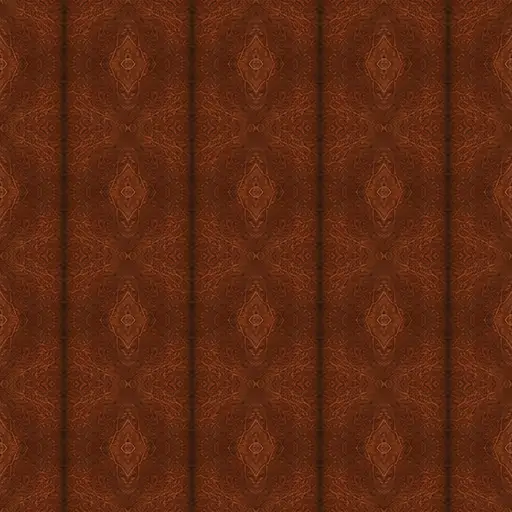
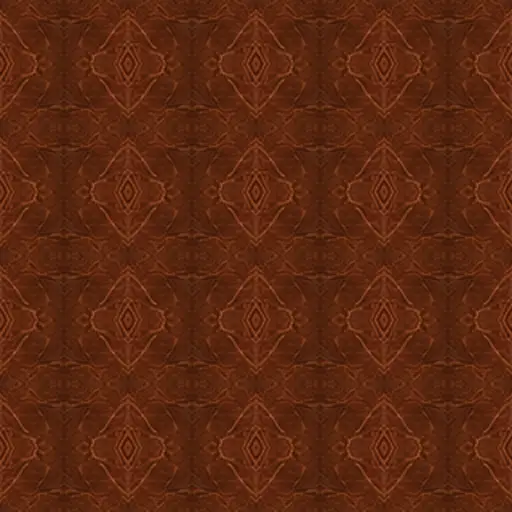
Refine picked leather and run-page readability

diff --git a/src/site/landing/landing.css b/src/site/landing/landing.css
@@ -1,5 +1,5 @@
 /* Live text and responsive cards from the picked hero's 12ui HTML conversion. */
-*{box-sizing:border-box}html{scroll-behavior:smooth}body{margin:0;background:var(--paper);color:var(--ink);font:17px/1.5 var(--font-ui);-webkit-font-smoothing:antialiased}a{color:inherit;text-underline-offset:5px}a:focus-visible{outline:3px solid var(--focus);outline-offset:3px}h1,h2,h3{font-family:var(--font-display);font-weight:500;letter-spacing:-.02em}p{margin:0}.site-header,.site-footer{width:calc(100% - 64px);max-width:1200px;margin:0 auto;display:flex;justify-content:space-between;align-items:center;gap:24px}.site-header{height:86px;border-bottom:1px solid var(--hairline)}.site-brand{display:flex;align-items:center;gap:12px;font:500 22px var(--font-display);text-decoration:none}.site-brand img{width:26px;height:26px}.site-header nav,.site-footer nav{display:flex;gap:32px;font-size:16px}.site-header nav a,.site-footer nav a{text-decoration:none}.site-header a:hover,.site-footer a:hover{text-decoration:underline}.site main{max-width:1200px;margin:0 auto}.site-hero{text-align:center;padding-top:48px}.site-hero h1{font-size:88px;line-height:1;letter-spacing:-.02em;margin:0 0 24px}.hero-subhead{font-size:24px;line-height:1.4}.free-line{font-size:20px;margin:24px 0}.free-line strong{font-weight:600}.site-actions{display:flex;align-items:center;justify-content:center;gap:36px}.site-pill{display:inline-flex;align-items:center;justify-content:center;gap:10px;min-height:56px;padding:0 32px;background:var(--ink-pill);color:white;border-radius:var(--radius-pill);font-size:16px;font-weight:500;text-decoration:none;transition:background .15s,transform .15s}.site-pill:hover{background:#333330;transform:translateY(-1px)}.docs-link{font-size:17px}.licence-line{font-size:14px;color:var(--muted);margin:16px 0 30px}.leather-mat{position:relative;background:linear-gradient(0deg,#6c32182b,#ffffff0a),var(--leather) url('/brand/leather.webp') center/256px;border-radius:var(--radius-mat);box-shadow:inset 0 1px 0 #ffffff2e,var(--shadow-mat)}.brass-clasp{position:absolute;right:-6px;top:50%;width:38px;height:84px;transform:translateY(-50%);filter:drop-shadow(0 3px 2px #3b1b0f88);pointer-events:none}.hero-stage{padding:48px 64px;border-radius:var(--radius-band);text-align:left}.hero-cards{display:grid;grid-template-columns:repeat(3,minmax(0,1fr));gap:24px}.drawing-card{background:var(--surface);border:1px solid var(--hairline);border-radius:var(--radius-card);padding:22px;box-shadow:var(--shadow-card);color:var(--ink)}.drawing-card h2{display:flex;align-items:center;gap:18px;font:500 22px/1.2 var(--font-ui);letter-spacing:0;margin:0 0 18px}.step-number{font:500 40px/1 var(--font-display);color:var(--cognac);padding-right:18px;border-right:1px solid #b0aba4}.drawing-box{padding:0 16px;border:1px solid var(--hairline);border-radius:8px;font-size:16px}.search-row{display:flex;align-items:center;justify-content:space-between;gap:12px;min-height:48px}.search-row+.search-row{border-top:1px solid var(--hairline)}.search-row svg{width:20px;height:20px;flex:none}.matches{display:flex;align-items:center;gap:14px;margin-top:18px;font-size:16px}.check-disc{width:32px;height:32px;background:var(--cognac);border-radius:50%;color:white;display:inline-flex;justify-content:center;align-items:center;flex:none}.check-disc svg{width:22px;height:22px}.time-box p{padding:20px 0}.drawing-total{display:flex;justify-content:space-between;gap:8px;border-top:1px solid var(--hairline)}.bill-box{padding:16px}.bill-box p{margin-bottom:14px;white-space:nowrap}.drawing-badge{display:inline-block;padding:3px 10px;border-radius:var(--radius-pill);font-size:13px;line-height:1.6;background:var(--cognac-tint);color:var(--cognac-ink)}.drawing-pill{display:block;padding:11px 16px;border:1px solid var(--ink-pill);border-radius:var(--radius-pill);background:var(--ink-pill);color:#fff;font-size:14px;line-height:1.3;text-align:center;margin-top:20px;white-space:nowrap}.drawing-pill.outline{background:transparent;color:var(--ink);padding:10px 8px;font-size:13px}.site-sections{padding-top:140px}.feature{display:grid;grid-template-columns:1fr 1fr;gap:96px;align-items:center;margin-bottom:140px;scroll-margin-top:32px}.feature.reversed .feature-copy{order:2}.feature h2,.included>h2{font-size:56px;line-height:1.12;margin:0 0 24px}.feature-copy p{font-size:20px;line-height:1.55;max-width:42ch}.feature-drawing{padding:44px 48px}.feature-drawing .drawing-card{padding:26px;min-height:190px}.drawing-card h3{font:500 20px/1.3 var(--font-ui);letter-spacing:0;margin:0 0 18px}.text-bar{height:10px;border-radius:3px;background:var(--hairline);margin:20px 0}.text-bar.short{width:65%}.drawing-notice{font-size:12px;background:var(--cognac-tint);color:var(--cognac-ink);padding:12px;border-radius:6px;margin-top:20px}.drawing-row{display:flex;align-items:center;justify-content:space-between;gap:12px}.drawing-row h3{font-size:16px;margin:0}.ruled{padding:16px 0;border-top:1px solid var(--hairline);margin-top:20px;font-size:15px}.drawing-download{font-size:14px;color:var(--cognac);text-decoration:underline;text-underline-offset:4px;margin:18px 0 0}.drawing-source{font-size:14px;color:var(--muted);border-top:1px solid var(--hairline);padding-top:16px;margin-top:16px}.drawing-deadlines .drawing-card>p{font-size:14px;margin-top:16px}.drawing-keep .drawing-card{text-align:center}.drawing-keep svg{width:36px;height:36px;color:var(--cognac);margin:0 0 14px}.drawing-keep h3{font-family:var(--font-display);font-size:26px}.included{margin-bottom:140px;text-align:center}.included-drawing{display:grid;grid-template-columns:repeat(6,minmax(0,1fr));gap:16px;padding:40px}.included-tile{display:flex;flex-direction:column;align-items:center;justify-content:center;gap:16px;min-height:140px;padding:16px 12px;background:var(--surface);border:1px solid var(--hairline);border-radius:var(--radius-card);box-shadow:var(--shadow-card);font-size:14px}.included-tile svg{width:30px;height:30px;color:var(--cognac)}.closing{margin-bottom:96px}.closing>.leather-mat{padding:64px 48px;text-align:center;border-radius:var(--radius-band)}.closing h2{font-size:56px;color:var(--paper);margin:0 0 32px;line-height:1.1}.closing .docs-link{color:var(--paper)}.site-footer{border-top:1px solid var(--hairline);padding:32px 0 40px}
+*{box-sizing:border-box}html{scroll-behavior:smooth}body{margin:0;background:var(--paper);color:var(--ink);font:17px/1.5 var(--font-ui);-webkit-font-smoothing:antialiased}a{color:inherit;text-underline-offset:5px}a:focus-visible{outline:3px solid var(--focus);outline-offset:3px}h1,h2,h3{font-family:var(--font-display);font-weight:500;letter-spacing:-.02em}p{margin:0}.site-header,.site-footer{width:calc(100% - 64px);max-width:1200px;margin:0 auto;display:flex;justify-content:space-between;align-items:center;gap:24px}.site-header{height:86px;border-bottom:1px solid var(--hairline)}.site-brand{display:flex;align-items:center;gap:12px;font:500 22px var(--font-display);text-decoration:none}.site-brand img{width:26px;height:26px}.site-header nav,.site-footer nav{display:flex;gap:32px;font-size:16px}.site-header nav a,.site-footer nav a{text-decoration:none}.site-header a:hover,.site-footer a:hover{text-decoration:underline}.site main{max-width:1200px;margin:0 auto}.site-hero{text-align:center;padding-top:48px}.site-hero h1{font-size:88px;line-height:1;letter-spacing:-.02em;margin:0 0 24px}.hero-subhead{font-size:24px;line-height:1.4}.free-line{font-size:20px;margin:24px 0}.free-line strong{font-weight:600}.site-actions{display:flex;align-items:center;justify-content:center;gap:36px}.site-pill{display:inline-flex;align-items:center;justify-content:center;gap:10px;min-height:56px;padding:0 32px;background:var(--ink-pill);color:white;border-radius:var(--radius-pill);font-size:16px;font-weight:500;text-decoration:none;transition:background .15s,transform .15s}.site-pill:hover{background:#333330;transform:translateY(-1px)}.docs-link{font-size:17px}.licence-line{font-size:14px;color:var(--muted);margin:16px 0 30px}.leather-mat{position:relative;background:linear-gradient(0deg,#6c32182b,#ffffff0a),var(--leather) url('/brand/leather.webp') center/256px;border-radius:var(--radius-mat);box-shadow:inset 0 1px 0 #ffffff2e,var(--shadow-mat)}.brass-clasp{position:absolute;right:-6px;top:50%;width:38px;height:84px;transform:translateY(-50%);filter:drop-shadow(0 3px 2px #3b1b0f88);pointer-events:none}.hero-stage{padding:48px 64px;border-radius:var(--radius-band);text-align:left}.hero-cards{display:grid;grid-template-columns:repeat(3,minmax(0,1fr));gap:24px}.drawing-card{background:var(--surface);border:1px solid var(--hairline);border-radius:var(--radius-card);padding:22px;box-shadow:var(--shadow-card);color:var(--ink)}.drawing-card h2{display:flex;align-items:center;gap:18px;font:500 22px/1.2 var(--font-ui);letter-spacing:0;margin:0 0 18px}.step-number{font:500 40px/1 var(--font-display);color:var(--cognac);padding-right:18px;border-right:1px solid #b0aba4}.drawing-box{padding:0 16px;border:1px solid var(--hairline);border-radius:8px;font-size:16px}.search-row{display:flex;align-items:center;justify-content:space-between;gap:12px;min-height:48px}.search-row+.search-row{border-top:1px solid var(--hairline)}.search-row svg{width:20px;height:20px;flex:none}.matches{display:flex;align-items:center;gap:14px;margin-top:18px;font-size:16px}.check-disc{width:32px;height:32px;background:var(--cognac);border-radius:50%;color:white;display:inline-flex;justify-content:center;align-items:center;flex:none}.check-disc svg{width:22px;height:22px}.time-box p{padding:20px 0}.drawing-total{display:flex;justify-content:space-between;gap:8px;border-top:1px solid var(--hairline)}.bill-box{padding:16px}.bill-box p{margin-bottom:14px;white-space:nowrap}.drawing-badge{display:inline-block;padding:3px 10px;border-radius:var(--radius-pill);font-size:13px;line-height:1.6;background:var(--cognac-tint);color:var(--cognac-ink)}.drawing-pill{display:block;padding:11px 16px;border:1px solid var(--ink-pill);border-radius:var(--radius-pill);background:var(--ink-pill);color:#fff;font-size:14px;line-height:1.3;text-align:center;margin-top:20px;white-space:nowrap}.drawing-pill.outline{background:transparent;color:var(--ink);padding:10px 8px;font-size:13px}.site-sections{padding-top:140px}.feature{display:grid;grid-template-columns:1fr 1fr;gap:96px;align-items:center;margin-bottom:140px;scroll-margin-top:32px}.feature.reversed .feature-copy{order:2}.feature h2,.included>h2{font-size:56px;line-height:1.12;margin:0 0 24px}.feature-copy p{font-size:20px;line-height:1.55;max-width:42ch}.feature-drawing{padding:44px 48px}.feature-drawing .drawing-card{padding:26px;min-height:190px}.drawing-card h3{font:500 20px/1.3 var(--font-ui);letter-spacing:0;margin:0 0 18px}.text-bar{height:10px;border-radius:3px;background:var(--hairline);margin:20px 0}.text-bar.short{width:65%}.drawing-notice{font-size:12px;background:var(--cognac-tint);color:var(--cognac-ink);padding:12px;border-radius:6px;margin-top:20px}.drawing-row{display:flex;align-items:center;justify-content:space-between;gap:12px}.drawing-row h3{font-size:16px;margin:0}.ruled{padding:16px 0;border-top:1px solid var(--hairline);margin-top:20px;font-size:15px}.drawing-download{font-size:14px;color:var(--cognac);text-decoration:underline;text-underline-offset:4px;margin:18px 0 0}.drawing-source{font-size:14px;color:var(--muted);border-top:1px solid var(--hairline);padding-top:16px;margin-top:16px}.drawing-deadlines .drawing-card>p{font-size:14px;margin-top:16px}.drawing-keep .drawing-card{text-align:center}.drawing-keep svg{width:36px;height:36px;color:var(--cognac);margin:0 0 14px}.drawing-keep h3{font-family:var(--font-display);font-size:26px}.included{margin-bottom:140px;text-align:left}.included-drawing{display:grid;grid-template-columns:repeat(3,minmax(0,1fr));gap:16px;padding:40px}.included-tile{display:flex;flex-direction:row;align-items:center;justify-content:center;gap:16px;min-height:110px;padding:20px 16px;background:var(--surface);border:1px solid var(--hairline);border-radius:var(--radius-card);box-shadow:var(--shadow-card);font-size:17px}.included-tile svg{width:30px;height:30px;color:var(--cognac)}.closing{margin-bottom:96px}.closing>.leather-mat{padding:64px 48px;text-align:center;border-radius:var(--radius-band)}.closing h2{font-size:56px;color:var(--paper);margin:0 0 32px;line-height:1.1}.closing .docs-link{color:var(--paper)}.site-footer{border-top:1px solid var(--hairline);padding:32px 0 40px}
 @media(max-width:1250px) and (min-width:701px){.site main{margin:0 32px}.site-hero h1{font-size:72px}.hero-subhead{font-size:22px}.hero-stage{padding:40px 36px}.hero-cards{gap:16px}.drawing-card{padding:16px}.drawing-card h2{font-size:20px;gap:12px}.step-number{font-size:36px;padding-right:12px}.drawing-box{padding:0 12px;font-size:14px}.matches{font-size:14px}.feature{gap:64px}.feature h2{font-size:48px}.feature-drawing{padding:36px}.included-drawing{grid-template-columns:repeat(3,1fr)}}
-@media(max-width:700px){.site-header,.site-footer{width:auto;margin:0 20px}.site-header{height:76px}.site-header nav,.site-footer nav{gap:20px;font-size:14px}.site-brand{font-size:22px;gap:10px}.site main{margin:0 20px}.site-hero{padding-top:36px}.site-hero h1{font-size:44px;line-height:1.05;margin-bottom:20px}.hero-subhead{font-size:17px;line-height:1.5}.free-line{font-size:15px;line-height:1.6;margin:20px 0}.site-actions{gap:22px;flex-wrap:wrap}.site-pill{min-height:52px;padding:0 26px;font-size:16px}.docs-link{font-size:15px}.licence-line{font-size:12px;margin:20px 0 28px}.hero-stage{padding:28px 24px;border-radius:var(--radius-band)}.hero-cards{grid-template-columns:1fr;gap:24px}.drawing-card{padding:20px}.drawing-card h2{font-size:20px;gap:14px}.step-number{font-size:36px;padding-right:14px}.drawing-box{font-size:15px;padding:0 14px}.matches{font-size:15px}.time-box p{padding:20px 0}.bill-box{padding:16px}.drawing-pill.outline{font-size:13px}.brass-clasp{width:28px;height:64px;right:-8px}.site-sections{padding-top:96px}.feature{display:flex;flex-direction:column;align-items:stretch;gap:32px;margin-bottom:96px}.feature.reversed .feature-copy{order:0}.feature h2,.included>h2{font-size:34px;margin-bottom:18px}.feature-copy p{font-size:17px;line-height:1.6}.feature-drawing{padding:28px 24px}.feature-drawing .drawing-card{padding:22px;min-height:170px}.drawing-row{flex-wrap:wrap}.drawing-card h3{font-size:18px}.drawing-row h3{font-size:16px}.drawing-pill{font-size:13px;padding:11px 12px}.drawing-notice{font-size:12px}.included{margin-bottom:96px}.included-drawing{grid-template-columns:repeat(3,minmax(0,1fr));gap:10px;padding:24px 16px}.included-tile{min-height:112px;font-size:11px;gap:12px;padding:12px 5px}.included-tile svg{width:25px;height:25px}.closing{margin-bottom:64px}.closing>.leather-mat{padding:40px 24px}.closing h2{font-size:34px;margin-bottom:28px}.closing .site-actions{gap:20px;flex-direction:column}.site-footer{padding:28px 0 32px;gap:24px;flex-wrap:wrap}.site-footer nav{gap:24px}}
+@media(max-width:700px){.site-header,.site-footer{width:auto;margin:0 20px}.site-header{height:76px}.site-header nav,.site-footer nav{gap:20px;font-size:14px}.site-brand{font-size:22px;gap:10px}.site main{margin:0 20px}.site-hero{padding-top:36px}.site-hero h1{font-size:44px;line-height:1.05;margin-bottom:20px}.hero-subhead{font-size:17px;line-height:1.5}.free-line{font-size:15px;line-height:1.6;margin:20px 0}.site-actions{gap:22px;flex-wrap:wrap}.site-pill{min-height:52px;padding:0 26px;font-size:16px}.docs-link{font-size:15px}.licence-line{font-size:12px;margin:20px 0 28px}.hero-stage{padding:28px 24px;border-radius:var(--radius-band)}.hero-cards{grid-template-columns:1fr;gap:24px}.drawing-card{padding:20px}.drawing-card h2{font-size:20px;gap:14px}.step-number{font-size:36px;padding-right:14px}.drawing-box{font-size:15px;padding:0 14px}.matches{font-size:15px}.time-box p{padding:20px 0}.bill-box{padding:16px}.drawing-pill.outline{font-size:13px}.brass-clasp{width:28px;height:64px;right:-8px}.site-sections{padding-top:96px}.feature{display:flex;flex-direction:column;align-items:stretch;gap:32px;margin-bottom:96px}.feature.reversed .feature-copy{order:0}.feature h2,.included>h2{font-size:34px;margin-bottom:18px}.feature-copy p{font-size:17px;line-height:1.6}.feature-drawing{padding:28px 24px}.feature-drawing .drawing-card{padding:22px;min-height:170px}.drawing-row{flex-wrap:wrap}.drawing-card h3{font-size:18px}.drawing-row h3{font-size:16px}.drawing-pill{font-size:13px;padding:11px 12px}.drawing-notice{font-size:12px}.included{margin-bottom:96px}.included-drawing{grid-template-columns:repeat(3,minmax(0,1fr));gap:10px;padding:24px 16px}.included-tile{flex-direction:column;min-height:112px;font-size:11px;gap:12px;padding:12px 5px}.included-tile svg{width:25px;height:25px}.closing{margin-bottom:64px}.closing>.leather-mat{padding:40px 24px}.closing h2{font-size:34px;margin-bottom:28px}.closing .site-actions{gap:20px;flex-direction:column}.site-footer{padding:28px 0 32px;gap:24px;flex-wrap:wrap}.site-footer nav{gap:24px}}
 @media(prefers-reduced-motion:reduce){html{scroll-behavior:auto}.site-pill{transition:none}}

diff --git a/public/rer-theme.css b/public/rer-theme.css
@@ -9,3 +9,6 @@
  --rer-radius:var(--radius-panel); --rer-button-radius:var(--radius-pill); --rer-wordmark-weight:500;
  --rer-logo:url('/brand/mark.svg');
 }
+
+/* Keep the Run page’s requirements readable above its floor art. */
+body:has(.steps) .facts{background:var(--paper);border-radius:var(--radius-panel);padding:16px 20px}
